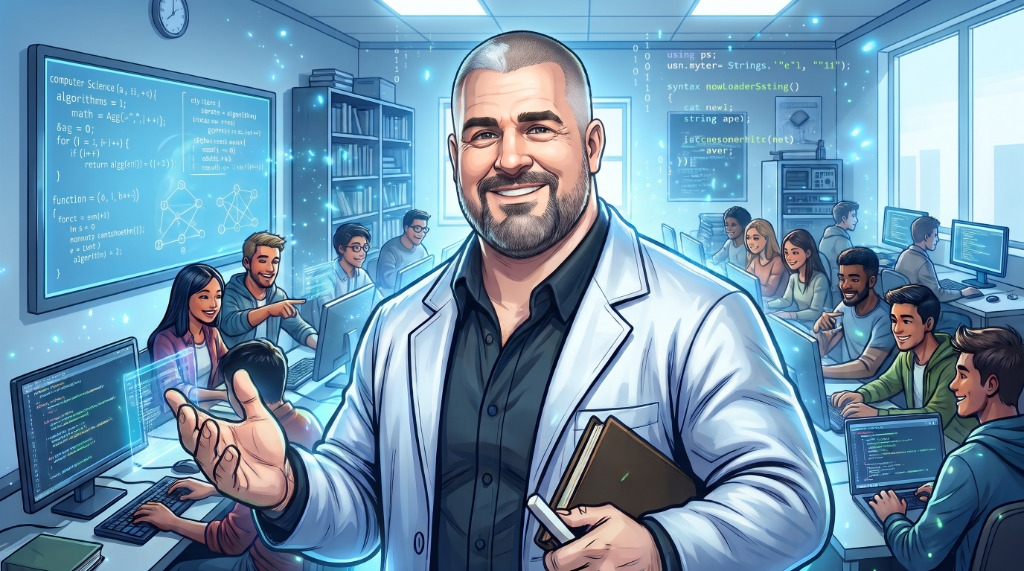
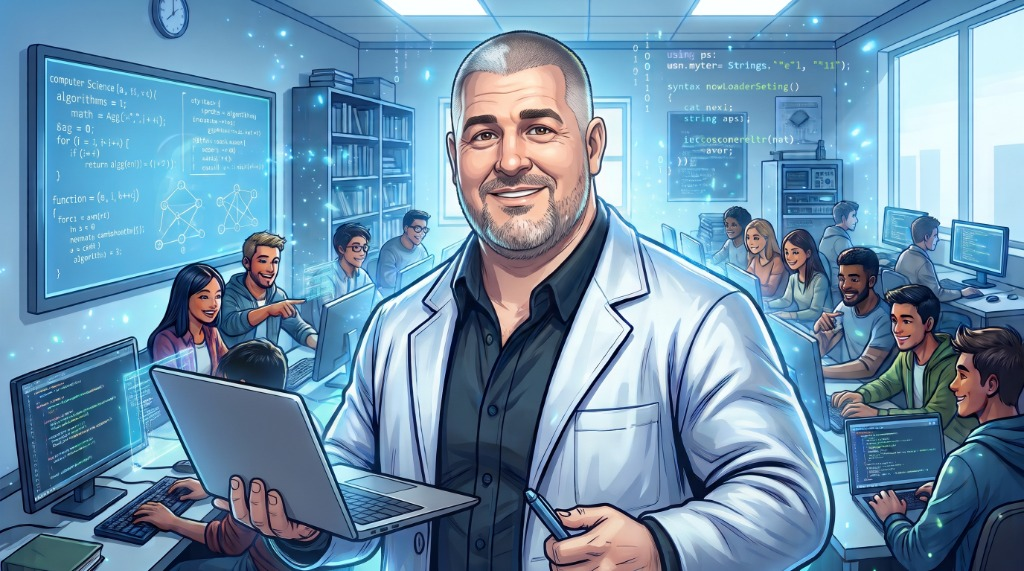
fix(hud-report): resolve assessment card button syntax error, ensure robust window z-index layering, and update About modal image

diff --git a/js/pedagogy/hud.js b/js/pedagogy/hud.js
@@ -473,7 +473,7 @@
         // Bring HUD to front cleanly when clicked, but allow active windows to raise above when focused
         function bringToFront() {
             el.classList.add('is-active');
-            el.style.zIndex = '350';
+            el.style.zIndex = '890';
         }
         el.addEventListener('mousedown', bringToFront);
         if (window.PointerEvent) {
@@ -626,7 +626,30 @@
         initOnce();
         renderContent();
         var el = getEl();
-        if (el) el.classList.add('is-open');
+        if (el) {
+            el.classList.add('is-open');
+            el.classList.remove('is-collapsed');
+            el.style.display = 'flex';
+            el.classList.add('is-active');
+            el.style.zIndex = '890';
+
+            // Ensure HUD remains within visible viewport on any screen resolution
+            try {
+                var rect = el.getBoundingClientRect();
+                var maxL = Math.max(10, global.innerWidth - 100);
+                var maxT = Math.max(10, global.innerHeight - 80);
+                if (rect.right < 80 || rect.bottom < 80 || rect.left > maxL || rect.top > maxT) {
+                    el.style.top = '16px';
+                    if (global.Win11I18N && global.Win11I18N.isRtl()) {
+                        el.style.right = '24px';
+                        el.style.left = 'auto';
+                    } else {
+                        el.style.left = '24px';
+                        el.style.right = 'auto';
+                    }
+                }
+            } catch (posErr) { }
+        }
     }
 
     function toggle() {

diff --git a/js/core/window-manager.js b/js/core/window-manager.js
@@ -110,10 +110,12 @@
         if (win.isMinimized) {
             win.isMinimized = false;
             win.el.classList.remove('is-minimized');
+            win.el.style.display = 'flex';
+            applyRect(win);
         }
         s.topZ += 1;
-        if (s.topZ > 900) {
-            // Re-normalize stack cleanly to avoid approaching flyout z-index layers
+        if (s.topZ > 800) {
+            // Re-normalize stack cleanly to avoid approaching flyout & HUD z-index layers
             var base = 310;
             for (var j = 0; j < s.windowOrder.length; j++) {
                 var wObj = s.windows[s.windowOrder[j]];
@@ -132,7 +134,7 @@
         var hud = document.getElementById('pedagogy-hud');
         if (hud) {
             hud.classList.remove('is-active');
-            hud.style.zIndex = '';
+            hud.style.zIndex = '850';
         }
 
         var idx = s.windowOrder.indexOf(id);

diff --git a/js/pedagogy/report.js b/js/pedagogy/report.js
@@ -1420,20 +1420,6 @@
             ]
         });
     }
-                {
-                    id: 'btn-cancel-export-save',
-                    label: cancelLabel,
-                    primary: false,
-                    onClick: function (closeDlg) {
-                        closeDlg(false);
-                        if (opts.fromCertificate) {
-                            setTimeout(function () { openCertificate(); }, 0);
-                        }
-                    }
-                }
-            ]
-        });
-    }
 
     function openCertificate() {
         var t = global.Win11I18N.t.bind(global.Win11I18N);

diff --git a/css/pedagogical.css b/css/pedagogical.css
@@ -15,21 +15,21 @@
     border-radius: 10px;
     border: 1px solid var(--win-border-window);
     box-shadow: var(--win-shadow-window);
-    z-index: 240;
+    z-index: 850;
     display: none;
     flex-direction: column;
     overflow: hidden;
 }
 #pedagogy-hud.is-active,
 #pedagogy-hud:focus-within {
-    z-index: 450;
+    z-index: 890;
 }
 html[dir="rtl"] #pedagogy-hud {
     left: auto;
     right: 112px;
 }
 #pedagogy-hud.is-open {
-    display: flex;
+    display: flex !important;
 }
 #pedagogy-hud.is-maximized {
     left: 8px !important;
